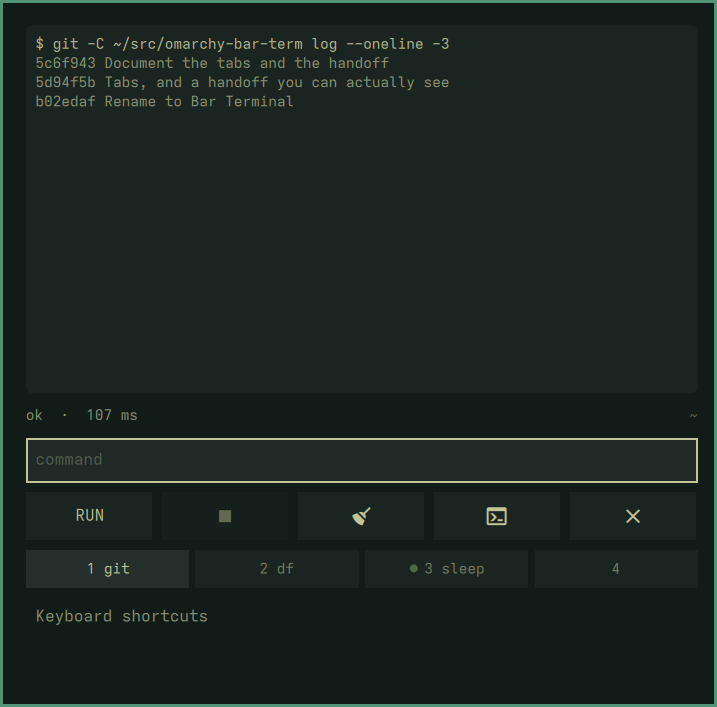
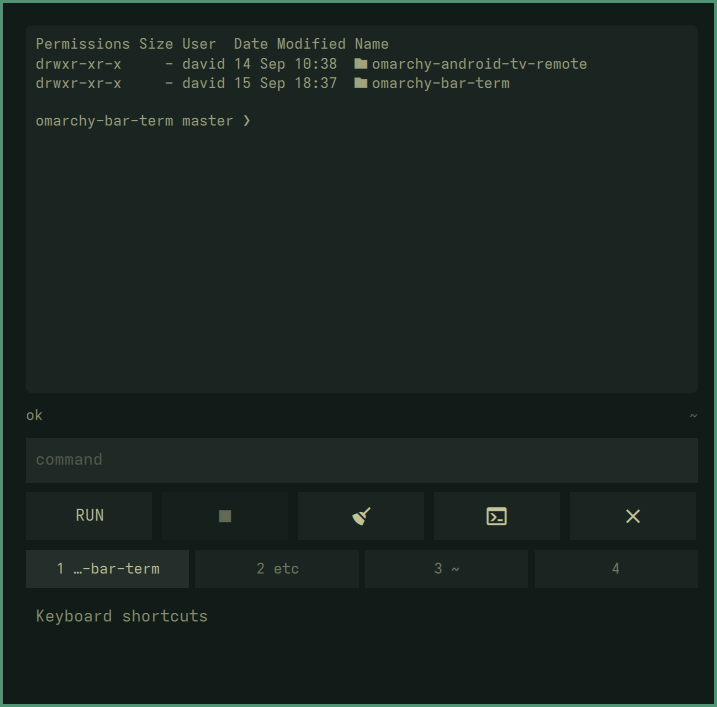
docs: screenshots of the sessions, tabs and shortcut list
Claude-Session: https://claude.ai/code/session_01NsuTX3xQbZ1pzCFMGiucjP

diff --git a/README.md b/README.md
@@ -5,7 +5,7 @@ and carry on with whatever you were doing. Each tab is a real shell that stays w
 left it, and any of them can be opened in a terminal window without losing its place.
 
 <p align="center">
-  <img src="docs/pad.png" alt="The pad: a command and its output, the result line, and the tab strip" width="420">
+  <img src="docs/pad.png" alt="The pad: a session's screen, its result line, and the tab strip along the foot" width="420">
 </p>
 
 It is for the commands that are not worth opening a window for: a `git log`, a `df -h`, a
@@ -110,7 +110,7 @@ It is also a one-line prompt. Multi-line editing, and keys that belong to the sh
 than to the pad, happen in the attached terminal.
 
 <p align="center">
-  <img src="docs/stopped.png" alt="A stopped command, reported in the scrollback and on the result line" width="420">
+  <img src="docs/running.png" alt="A command running in tab 3: the result line says so and the tab keeps a dot" width="420">
 </p>
 
 Neither is a limit on what you can run: the session is a real shell, and `Ctrl+T` is
